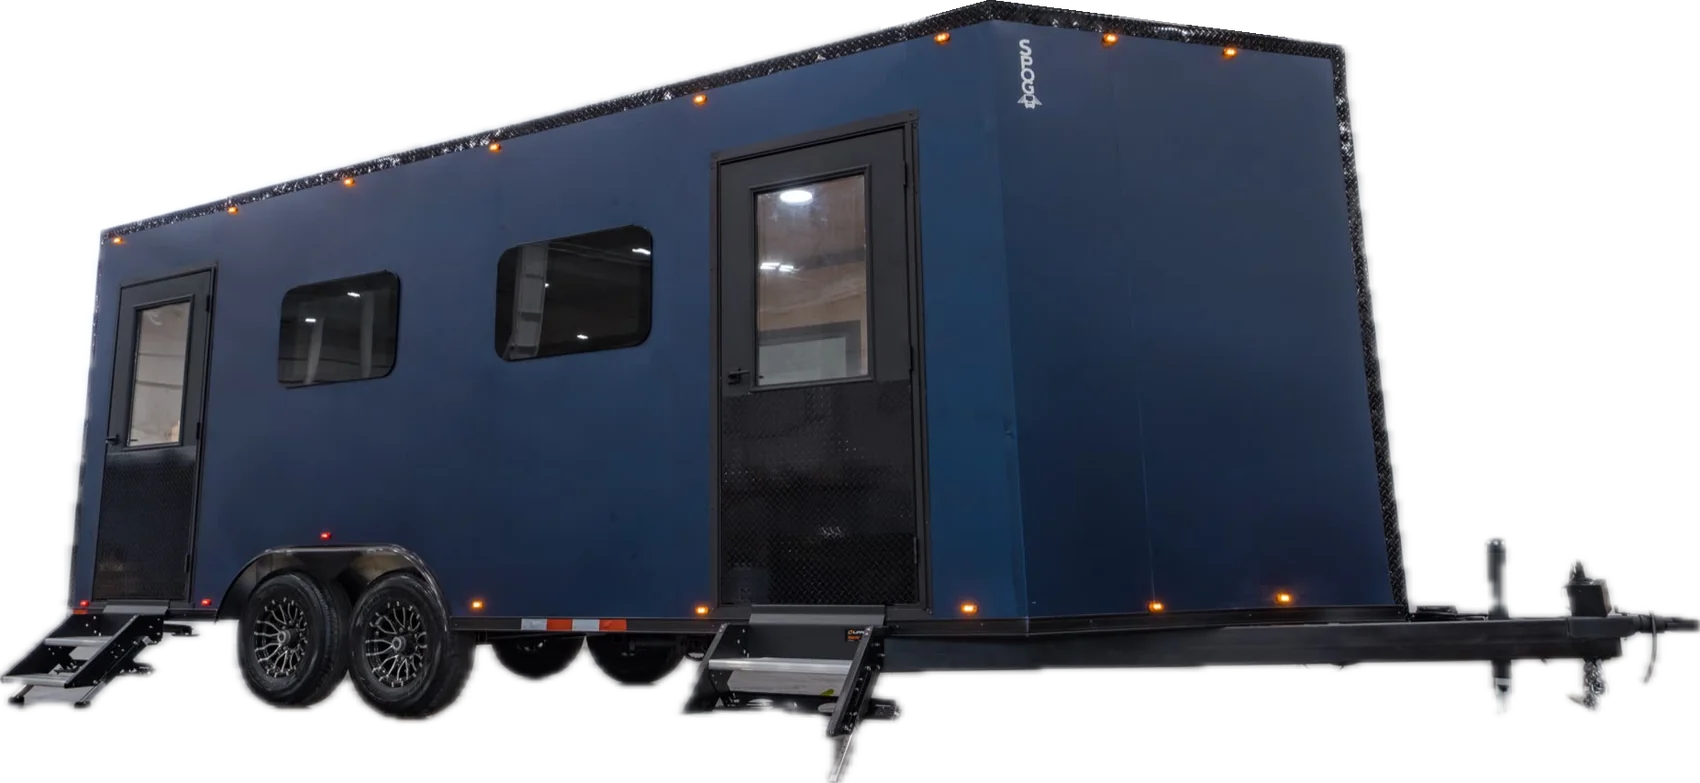
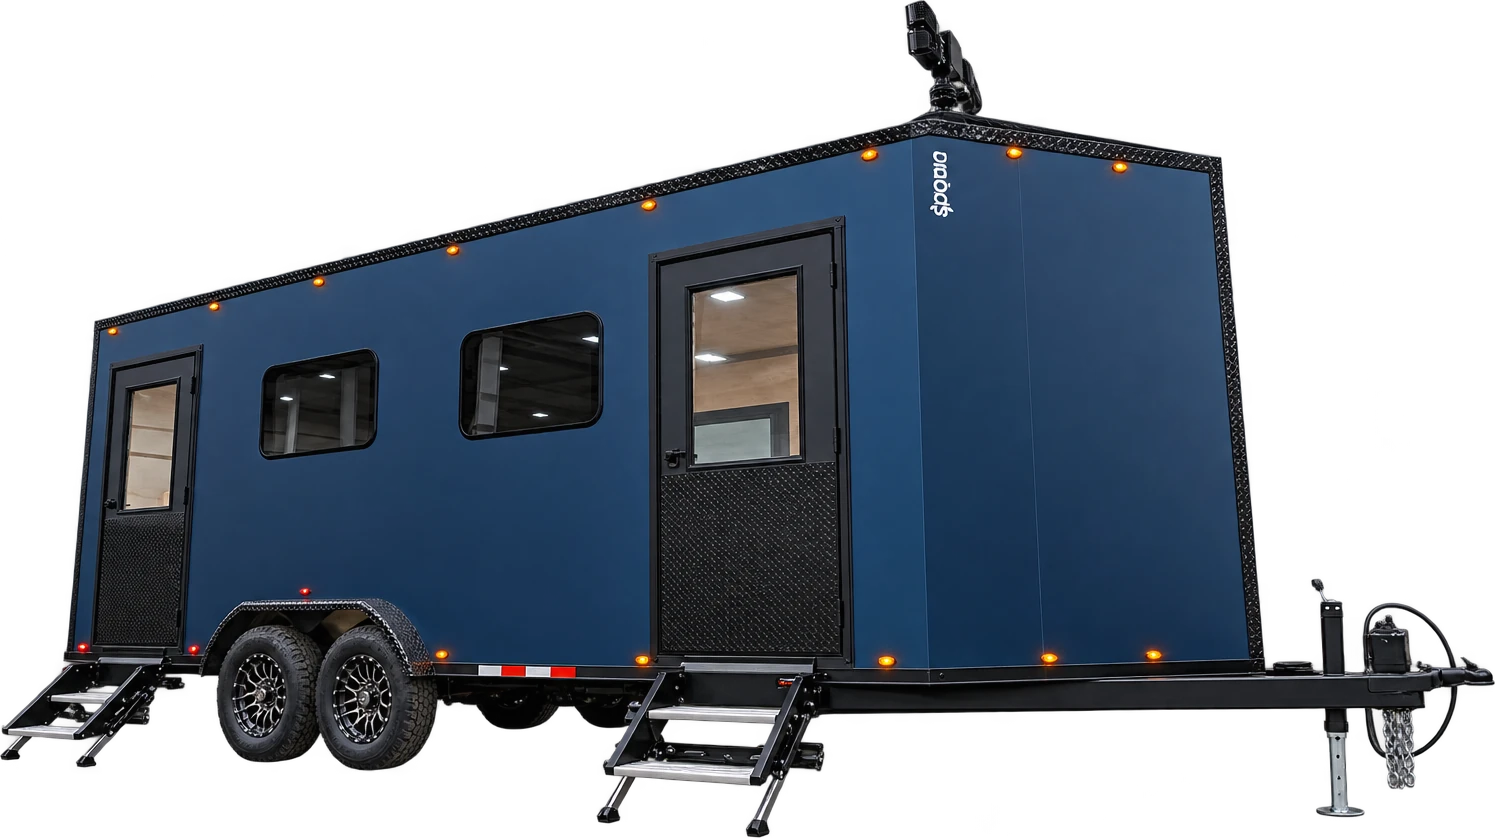
Homepage lineup: Nate's cleaner Workstation cut-out

diff --git a/src/data/home2.ts b/src/data/home2.ts
@@ -60,7 +60,7 @@ export const lineup = {
       id: 'workstation', name: 'Workstation', tone: 'studio' as Tone, href: '/workstation', builder: '',
       line: 'The site office that works the day it lands.', // SOURCE. Nate wants a new line (2026-11-18, "sounds so AI"). Ten options went to him in chat.
       facts: ['From $15,000', '10 or 20 ft', 'Built-in climate control'], // NATE
-      image: '/images/lineup-workstation.webp', width: 1700, height: 783,
+      image: '/images/lineup-workstation.webp', width: 1495, height: 838, // Nate's own cut-out (2026-11-19, 'Workstation transparent background.png')
       alt: 'Navy SPOG Workstation trailer with two doors and steps',
       fit: [10.6, 30], shot: [92, 80], lap: 0.42,
     },

diff --git a/CLAUDE.md b/CLAUDE.md
@@ -215,7 +215,7 @@ Each product page is written for its own buyer. The single shared `[product].ast
 - **New photos.** Don't commit camera originals (they run 10 to 360 MB). Put originals in `_photos-original/<date>/`, then make web copies in `public/images/`: `sips -s format jpeg -Z 2400` (it reads .CR3 raw files too and bakes in rotation), then `ffmpeg -map_metadata -1 -q:v 4` for the 2400 px copy and `-vf scale=1200:-2` for the `-1200` copy. That strips location data. sips needs an unsandboxed shell. Videos: `ffmpeg -an -map_metadata -1 -vf scale=1600:-2 -c:v libx264 -crf 30 -movflags +faststart`, cut to a stretch with no burned-in text. Add the result to `shoot` in `content.ts`.
 - **Slowed and looped videos.** Nate wants slow motion without stutter. Slow with `setpts=2*PTS` and fill the gaps with `minterpolate=fps=30:mi_mode=mci:mc_mode=aobmc:me_mode=bidir:vsbmc=1`, so every frame is new rather than repeated. Join clips with `xfade`. For a seamless loop, cross-fade the end of the joined video into its own first second and trim that second off the front. `about-shop-loop.mp4` was made this way. The card videos are cropped to 4:5 (`crop=864:1080:x:0`).
 
-- **Cut-out trailers for the lineup.** `scripts/cutout.py` lifts the trailer out of a photo with Apple's Vision (setup and usage are at the top of the file). It runs on the Mac and needs an unsandboxed shell. Check the edges, then retouch by hand. On 2026-11-18 the Workstation cut-out (from `ws-navy-studio.jpg`) had the wall lettering and mast head above the roof erased. The Event one (from `event-day-wings.jpg`) had the table, jacks and tongue erased, and its left wing fades out where the photo cut it off. Clean side profiles on a plain wall from Rob would replace all three.
+- **Cut-out trailers for the lineup.** `scripts/cutout.py` lifts the trailer out of a photo with Apple's Vision (setup and usage are at the top of the file). It runs on the Mac and needs an unsandboxed shell. Check the edges, then retouch by hand. On 2026-11-19 Nate supplied his own Workstation cut-out (`Workstation transparent background.png`), which replaced the script's version. It was only trimmed to its edges and saved as WebP. The Event one (from `event-day-wings.jpg`) had the table, jacks and tongue erased, and its left wing fades out where the photo cut it off. Clean side profiles on a plain wall from Rob would replace the other two.
 
 - **Scroll-driven CSS lives in `public/scroll-effects.css` on purpose.** The production CSS minifier folds `animation-timeline` into the `animation` shorthand, which browsers reject, and the effects silently stop. Don't move it into `src/styles`.
 - **Montserrat 700 is not loaded on purpose.** The approved design rendered `font-bold` at 800 because 700 wasn't available. Loading 700 will make bold text slightly thinner than the approved design. Change it only as a deliberate design decision.
